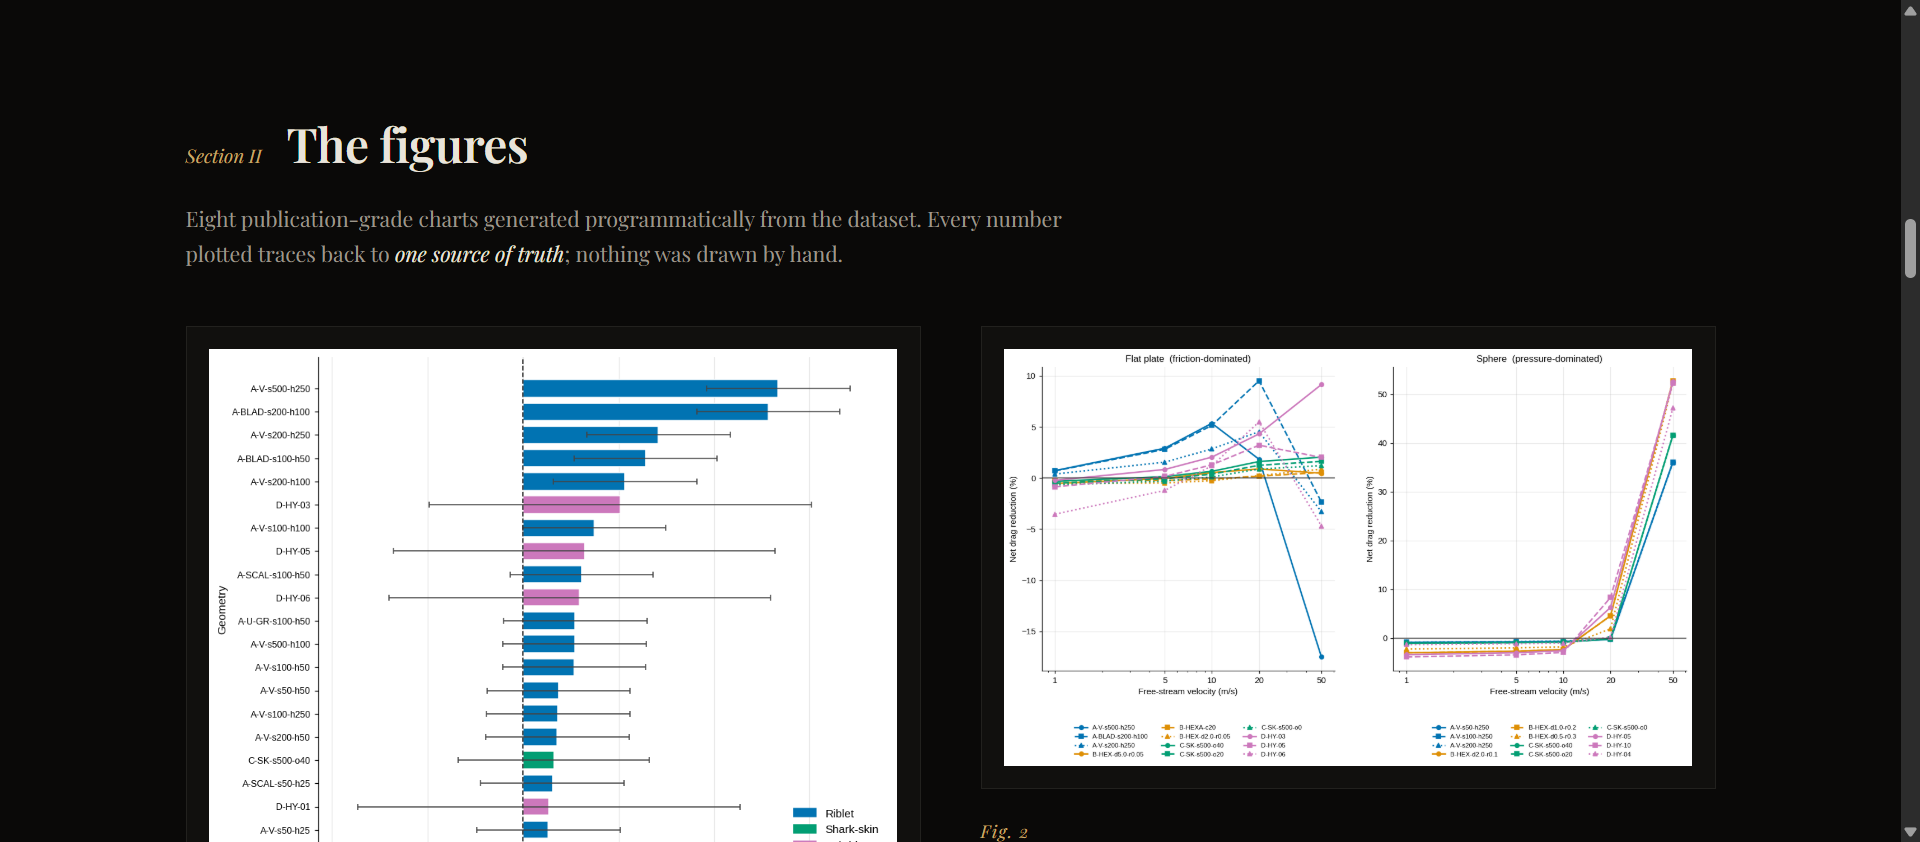
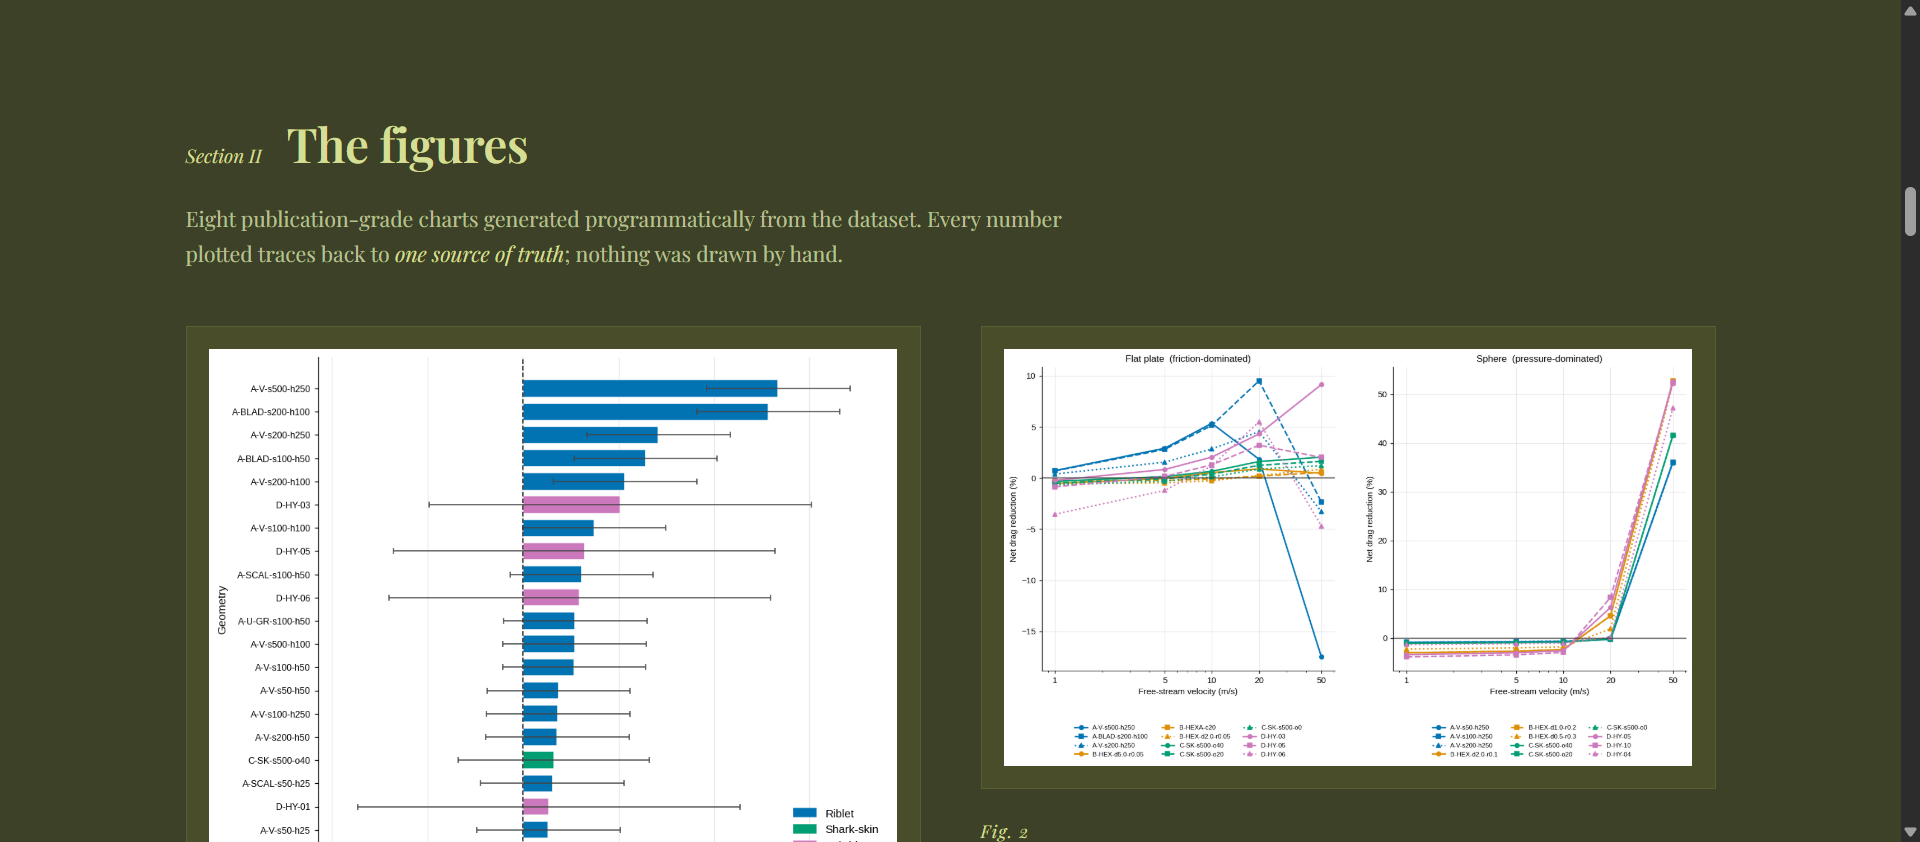
Recolor to the mossy hollow palette and refresh screenshots

diff --git a/index.html b/index.html
@@ -10,15 +10,15 @@
 <link href="https://fonts.googleapis.com/css2?family=Playfair+Display:ital,wght@0,400;0,500;0,600;0,700;0,800;1,400;1,500;1,600&display=swap" rel="stylesheet">
 <style>
   :root{
-    --bg:#0a0908;
-    --bg-raised:#11100e;
-    --ink:#e9e4da;
-    --ink-dim:#9d968a;
-    --ink-faint:#6b655b;
-    --gold:#c8a96a;
-    --gold-dim:#8f7847;
-    --hairline:rgba(233,228,218,.14);
-    --hairline-soft:rgba(233,228,218,.08);
+    --bg:#3D4127;
+    --bg-raised:rgba(99,107,47,.30);
+    --ink:#D4DE95;
+    --ink-dim:#BAC095;
+    --ink-faint:#BAC095;
+    --gold:#D4DE95;
+    --gold-dim:#636B2F;
+    --hairline:rgba(212,222,149,.22);
+    --hairline-soft:rgba(212,222,149,.11);
   }
   *{margin:0;padding:0;box-sizing:border-box}
   html{scroll-behavior:smooth}
@@ -30,7 +30,7 @@
     line-height:1.65;
     -webkit-font-smoothing:antialiased;
   }
-  ::selection{background:var(--gold);color:#0a0908}
+  ::selection{background:#D4DE95;color:#3D4127}
 
   .wrap{max-width:1320px;margin:0 auto;padding:0 48px}
 
@@ -236,7 +236,7 @@
   }
   td.num{text-align:right;color:var(--ink)}
   th.num{text-align:right}
-  tr:hover td{background:rgba(200,169,106,.045)}
+  tr:hover td{background:rgba(212,222,149,.07)}
   td .em-tag{
     font-style:italic;
     color:var(--gold);
